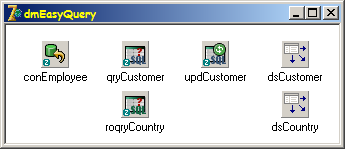
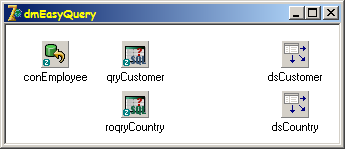
Some small modifications to the Zeos Documentation Collection
git-svn-id: http://svn.code.sf.net/p/zeoslib/code-0/trunk@8231 d681b350-854c-439c-a81d-c0ce20710203

Changed region(s): [[0.5797, 0.2685, 0.6667, 0.4564], [0.5217, 0.4832, 0.7246, 0.5638]]

diff --git a/documentation/tex/ZeosDocumentationCollection.tex b/documentation/tex/ZeosDocumentationCollection.tex
@@ -11,6 +11,7 @@
 \usepackage{float}
 \usepackage{hyperref}
 \usepackage{placeins}
+\usepackage{ulem}
 
 \setlength{\parskip}{0.2cm}
 
@@ -323,10 +324,15 @@ The Firebird embedded server does not support this feature.
 The usage of TZQuery is similar to the usage of BDE's TQuery component.
 
 \subsubsection{Recommandation: RequestLive and TZUpdateSQL}
-If an SQL dataset shall be updatable then RequestLive has to be set to true and you should generally use according update SQL statements that will be defined in TZUpdateSQL.
+\sout{If an SQL dataset shall be updatable then RequestLive has to be set to true and you should generally use according update SQL statements that will be defined in TZUpdateSQL.
 If this is done just assign TZUpdateSQL to the TZQuery object.
 Now all changes that will be made in the result set will be done to the database by using the defined statements of TZUpdateSQL.
-According to experience RequestLive mode runs more smoothly by using TZUpdateSQL.
+According to experience RequestLive mode runs more smoothly by using TZUpdateSQL.}
+
+In former versions of this manual, this section suggested to use TZUpdateSQL for updateable result sets.
+This isn't necessary anymore.
+For most situations Zeos will be able to generate necessary statements on its own.
+Use TZUpdateSQL only if you have a need to provide specific statements, that Zeos cannot determine automatically.
 
 \subsubsection{Usage of parameters in SQL statements}
 
@@ -345,7 +351,7 @@ There is no possibility to assign a TZUpdateSQL object.
 
 A TZUpdateSQL object provides statements to modify the data of a result set that is retrieved by a TZQuery object.
 The TZUpdateSQL component is comparable to BDE's TUpdateSQL component.
-Here is an example how to define the statements of an SQL statement with corresponding update statements (based on a dialect 3 database):
+Here is an example how to define the statements of an SQL statement with corresponding update statements (based on a Firebird Dialect 3 database):
 
 SQL: SELECT * FROM names
 
@@ -365,7 +371,7 @@ This is very helpful if you have to compare fieldvalues in a WHERE clause.
 In geneal a TZUpdateSQL object is assigned to a TZQuery object that has a read only resultset.
 This makes it possible to change its data.
 Such read only queries are queries that join multiple tables.
-But also with "normal" "RequestLive" resultsets you may use TZUpdateSQL (see: TZQuery).
+But also with "normal" (not ReadOnly) resultsets you may use TZUpdateSQL (see: TZQuery).
 
 \subsubsection{Multiple statements in TZQuery and TZUpdateSQL}
 The components TZQuery and TZUpdateSql provide the possibility to execute multiple statements, internally.
@@ -745,7 +751,7 @@ TZConnection:
   \item Database: Employee.fdb
   \item Name: conEmployee
   \item Password: "password"
-  \item Protocol: firebird-1.5
+  \item Protocol: firebird
   \item ReadOnly: False
   \item TransactionIsolationLevel: tiReadCommitted
   \item User: "username"
@@ -755,9 +761,8 @@ TZQuery:
 \begin{itemize}
   \item Connection: conEmployee
   \item Name: qryCustomer
-  \item RequestLive: True
+  \item ReadOnly: False
   \item SQL: SELECT * FROM customer ORDER BY customer
-  \item UpdateObject: updCustomer
 \end{itemize}
 
 Note: You have to create persistent TFields for all tablefields using the fieldeditor!
@@ -780,35 +785,6 @@ TZReadOnlyQuery
 
 Note: You have to create persistent TFields for all tablefields using the fieldeditor!
 
-TZUpdateSQL
-\begin{itemize}
-  \item DeleteSQL: created by UpdateSql editor
-  \item InsertSQL: created by UpdateSql editor
-  \item ModifySQL: created by UpdateSql editor
-  \item Name: updCustomer
-\end{itemize}
-
-The delete-, insert- and modify-statements for the TZUpdateSQL object are created with the UpdateSQL editor, automatically.
-The editor will be activated by double clicking on the TZUpdateSQL component.
-As key field you have to select the field CUST\_NO. The fields ADDRESS\_LINE1, ADDRESS\_LINE2, CITY, STATE\_PROVINCE, COUNTRY und POSTAL\_CODE will selected as update fields in list "Update Fields".
-Now the statements will be generated by clicking button "Generate SQL" (see firgures \ref{fig:dmEasyQuery_updCustomer_options} and \ref{fig:dmEasyQuery_updCustomer_sql}).
-If you only have such easy queries you can save a lot of typing by using the UpdateSQL editor.
-If it gets a little more complex you should create the needed statements "by hand".
-
-\begin{figure}[htbp] 
-  \centering
-  \includegraphics[width=0.7\textwidth]{ZeosTutorial/dmEasyQuery_updCustomer_options.png}
-  \caption{options tab in UpdateSQL editor updCustomer}
-  \label{fig:dmEasyQuery_updCustomer_options}
-\end{figure}
-
-\begin{figure}[htbp] 
-  \centering
-  \includegraphics[width=0.7\textwidth]{ZeosTutorial/dmEasyQuery_updCustomer_sql.png}
-  \caption{SQL tab in UpdateSQL editor updCustomer}
-  \label{fig:dmEasyQuery_updCustomer_sql}
-\end{figure}
-	
 TDataSource
 \begin{itemize}
   \item DataSet: sqlCustomer
